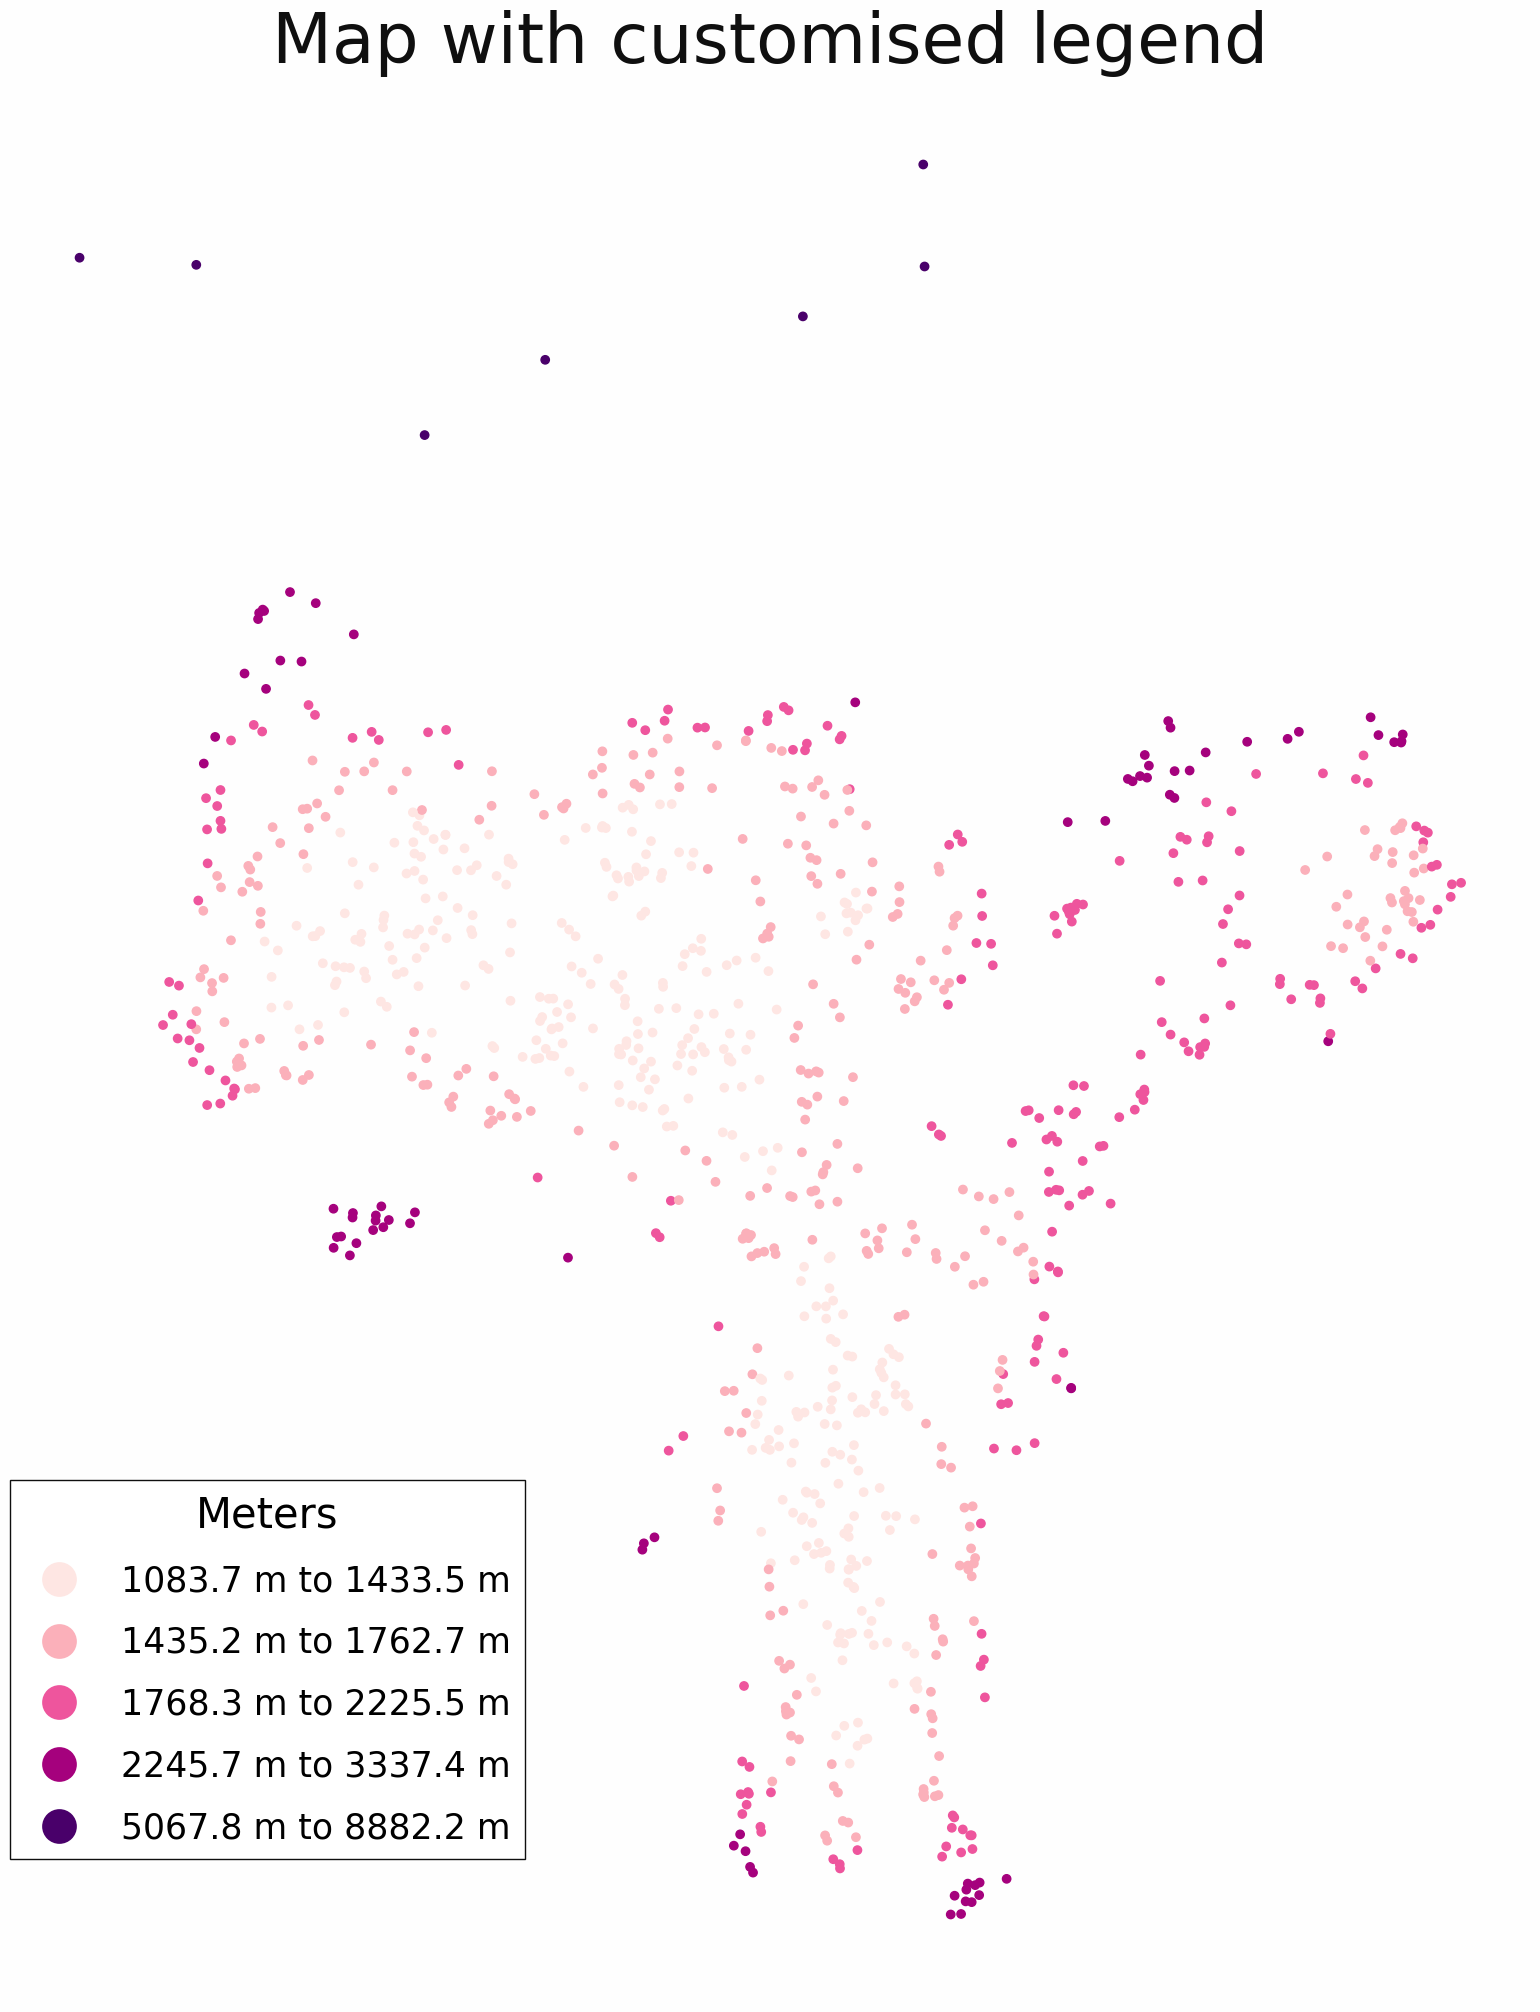
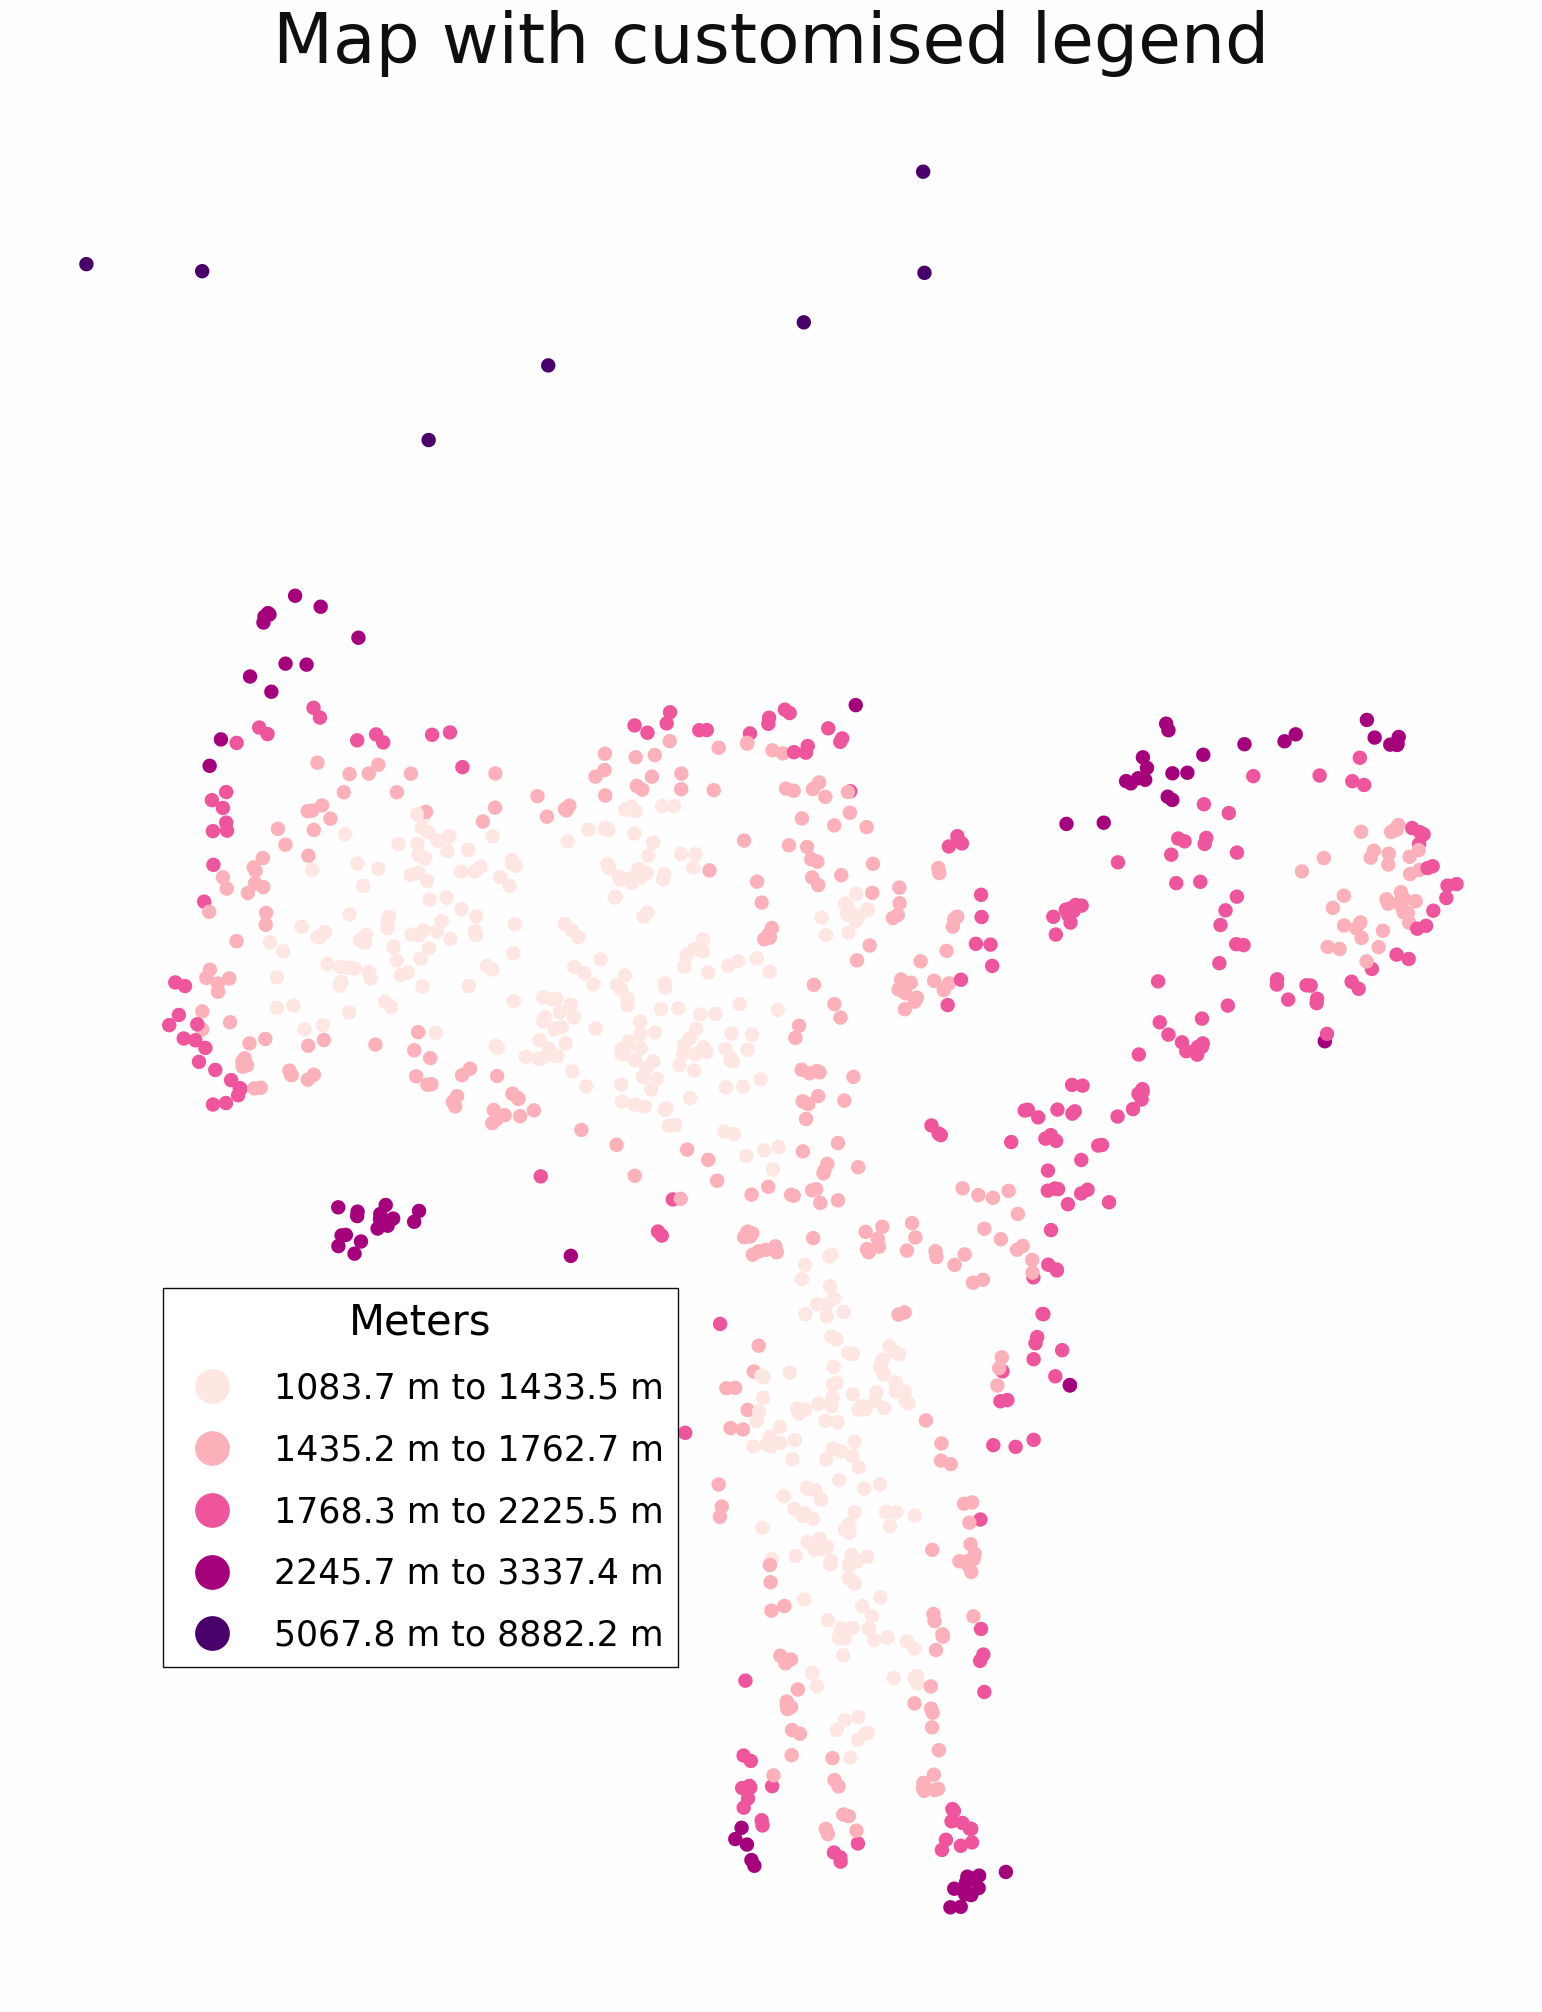
Docs

diff --git a/docs/examples/maps.py b/docs/examples/maps.py
@@ -44,14 +44,14 @@ print(points)
 # %% [markdown]
 # Create and save a simple plot with legend and title.
 # %%
-m = sg.ThematicMap(points, column="mean_dist_99_neighbors")
+m = sg.ThematicMap(sg.buff(points, 100), column="mean_dist_99_neighbors")
 m.title = "Distance to 99 nearest neighbors"
 m.plot()
 m.save("path_to_file.png")
 # %% [markdown]
 # Customising the colors and text. Creating an ugly example.
 # %%
-m = sg.ThematicMap(points, column="mean_dist_99_neighbors")
+m = sg.ThematicMap(sg.buff(points, 100), column="mean_dist_99_neighbors")
 
 m.title = "Map with custom (and ugly) colors."
 m.title_fontsize = 15
@@ -67,7 +67,7 @@ m.plot()
 #
 # Customising the legend can be done through the legend attribute.
 # %%
-m = sg.ThematicMap(points, column="mean_dist_99_neighbors")
+m = sg.ThematicMap(sg.buff(points, 100), column="mean_dist_99_neighbors")
 
 m.title = "Map with customised legend"
 
@@ -81,7 +81,7 @@ m.plot()
 # %% [markdown]
 # Using custom breaks and labels for the color classification.
 # %%
-m = sg.ThematicMap(points, column="mean_dist_99_neighbors")
+m = sg.ThematicMap(sg.buff(points, 100), column="mean_dist_99_neighbors")
 
 m.title = "Map with custom bins and legend labels"
 m.legend.title = "Custom labels"
@@ -104,14 +104,10 @@ m.plot()
 # maximum values in each color group. This will be accurate and truthful, but
 # somewhat confusing.
 # %%
-m = sg.ThematicMap(points, column="mean_dist_99_neighbors")
+m = sg.ThematicMap(sg.buff(points, 100), column="mean_dist_99_neighbors")
 m.title = "Map with custom bins, but default legend labels"
 m.bins = [1500, 2000, 2500, 3000]
 m.legend.title = "Default legend labels"
-m.plot()
-# %%
-m = sg.ThematicMap(sg.buff(points, 100), column="mean_dist_99_neighbors")
-m.title = "Map with a size of 20 inches"
 m.plot()
 # %% [markdown]
 # GeoDataFrames can be added as background with the add_background method.

diff --git a/docs/examples/network_analysis_examples.py b/docs/examples/network_analysis_examples.py
@@ -71,15 +71,12 @@ nwa
 # Get number of times each line segment was visited.
 
 # %%
-freq = nwa.get_route_frequencies(points.sample(75), points.sample(75))
+frequencies = nwa.get_route_frequencies(points.sample(75), points.sample(75))
 
-sg.qtm(
-    sg.buff(freq, 15),
-    "frequency",
-    scheme="naturalbreaks",
-    cmap="plasma",
-    title="Number of times each road was used.",
-)
+m = sg.ThematicMap(sg.buff(frequencies, 15), column="frequency", black=True)
+m.cmap = "plasma"
+m.title = "Number of times each road was used."
+m.plot()
 
 # %% [markdown]
 # Fast many-to-many travel times/distances.
@@ -92,21 +89,27 @@ print(od)
 # Get the area that can be reached within one or more breaks.
 
 # %%
-sa = nwa.service_area(
+service_areas = nwa.service_area(
     points.iloc[[0]],
     breaks=np.arange(1, 11),
 )
 
-sg.qtm(sa, "minutes", k=10, title="Roads that can be reached within 1 to 10 minutes")
+m = sg.ThematicMap(service_areas, column="minutes", black=True, size=10)
+m.k = 10
+m.title = "Roads that can be reached within 1 to 10 minutes"
+m.plot()
 # %% [markdown]
 # Get one or more route per origin-destination pair.
 
 # %%
 routes = nwa.get_k_routes(
-    points.iloc[[0]], points.iloc[[1]], k=5, drop_middle_percent=50
+    points.iloc[[0]], points.iloc[[1]], k=4, drop_middle_percent=50
 )
 
-sg.qtm(sg.buff(routes, 15), "k", title="Five fastest routes from A to B", legend=False)
+m = sg.ThematicMap(sg.buff(routes, 15), column="k", black=True)
+m.title = "Four fastest routes from A to B"
+m.legend.title = "Rank"
+m.plot()
 
 # %% [markdown]
 # More network analysis examples can be found here: https://github.com/statisticsnorway/ssb-sgis/blob/main/docs/network_analysis_demo_template.md

diff --git a/docs/output_for_docstrings.py b/docs/output_for_docstrings.py
@@ -89,23 +89,6 @@ legend_docstring()
 def get_neighbor_indices_docstring():
     from sgis import get_neighbor_indices, to_gdf
 
-    """
-    points = to_gdf([(0, 0), (0.5, 0.5), (2, 2)])
-    p1 = points.iloc[[0]]
-    print(points)
-    print(get_unique_neighbor_indices(p1, points))
-    print(get_unique_neighbor_indices(p1, points, max_distance=1))
-    print(get_unique_neighbor_indices(p1, points, max_distance=3))
-
-    points["text"] = [*"abd"]
-    print(get_unique_neighbor_indices(p1, points.set_index("text"), max_distance=3))
-
-    print(get_neighbor_indices(p1, points))
-    print(get_neighbor_indices(p1, points, max_distance=1))
-    print(get_neighbor_indices(p1, points, max_distance=3))
-    print(get_neighbor_indices(p1, points.set_index("text"), max_distance=3))
-    """
-
     points = to_gdf([(0, 0), (0.5, 0.5)])
     points["text"] = [*"ab"]
     print(get_neighbor_indices(points, points))
@@ -120,7 +103,6 @@ def get_neighbor_indices_docstring():
 
 
 get_neighbor_indices_docstring()
-ss
 
 
 @print_function_name

diff --git a/docs/examples/py_to_md.py b/docs/examples/py_to_md.py
@@ -53,6 +53,10 @@ def py_to_md(
     os.remove(nb_file)
 
 
+file = "network_analysis_examples"
+py_to_md(file, move_n_folders_up=0)
+xxx
+
 file = "maps"
 py_to_md(file, move_n_folders_up=0)
 ss

diff --git a/docs/examples/maps.md b/docs/examples/maps.md
@@ -1,13 +1,24 @@
 # Maps
 
 ```python
+import os
+import warnings
+
 import numpy as np
 import pandas as pd
+
+
+os.chdir("../../src")
+
 import sgis as sg
 
+
+# ignore some warnings
+pd.options.mode.chained_assignment = None
+warnings.filterwarnings(action="ignore", category=FutureWarning)
 ```
 
-First get 1000 addresses in Oslo and create a column with distance to neighbors.
+First get 1000 addresses in Oslo and create a distance to neighbors column.
 
 ```python
 points = sg.read_parquet_url(
@@ -44,7 +55,7 @@ print(points)
 Create and save a simple plot with legend and title.
 
 ```python
-m = sg.ThematicMap(points, column="mean_dist_99_neighbors")
+m = sg.ThematicMap(sg.buff(points, 100), column="mean_dist_99_neighbors")
 m.title = "Distance to 99 nearest neighbors"
 m.plot()
 m.save("path_to_file.png")
@@ -55,7 +66,7 @@ m.save("path_to_file.png")
 Customising the colors and text. Creating an ugly example.
 
 ```python
-m = sg.ThematicMap(points, column="mean_dist_99_neighbors")
+m = sg.ThematicMap(sg.buff(points, 100), column="mean_dist_99_neighbors")
 
 m.title = "Map with custom (and ugly) colors."
 m.title_fontsize = 15
@@ -75,7 +86,7 @@ See here for available cmaps: https://matplotlib.org/stable/tutorials/colors/col
 Customising the legend can be done through the legend attribute.
 
 ```python
-m = sg.ThematicMap(points, column="mean_dist_99_neighbors")
+m = sg.ThematicMap(sg.buff(points, 100), column="mean_dist_99_neighbors")
 
 m.title = "Map with customised legend"
 
@@ -93,7 +104,7 @@ m.plot()
 Using custom breaks and labels for the color classification.
 
 ```python
-m = sg.ThematicMap(points, column="mean_dist_99_neighbors")
+m = sg.ThematicMap(sg.buff(points, 100), column="mean_dist_99_neighbors")
 
 m.title = "Map with custom bins and legend labels"
 m.legend.title = "Custom labels"
@@ -120,7 +131,7 @@ maximum values in each color group. This will be accurate and truthful, but
 somewhat confusing.
 
 ```python
-m = sg.ThematicMap(points, column="mean_dist_99_neighbors")
+m = sg.ThematicMap(sg.buff(points, 100), column="mean_dist_99_neighbors")
 m.title = "Map with custom bins, but default legend labels"
 m.bins = [1500, 2000, 2500, 3000]
 m.legend.title = "Default legend labels"
@@ -128,14 +139,6 @@ m.plot()
 ```
 
 ![png](maps_files/maps_13_0.png)
-
-```python
-m = sg.ThematicMap(sg.buff(points, 100), column="mean_dist_99_neighbors")
-m.title = "Map with a size of 20 inches"
-m.plot()
-```
-
-![png](maps_files/maps_14_0.png)
 
 GeoDataFrames can be added as background with the add_background method.
 The background gdf will be gray by default, but can be changed by setting
@@ -153,7 +156,7 @@ m.add_background(background, color=None)
 m.plot()
 ```
 
-![png](maps_files/maps_16_0.png)
+![png](maps_files/maps_15_0.png)
 
 Setting black to True gives opposite colors and a palette suited for a black
 background (viridis).
@@ -170,7 +173,7 @@ m.add_background(background)
 m.plot()
 ```
 
-![png](maps_files/maps_18_0.png)
+![png](maps_files/maps_17_0.png)
 
 Customising all at once.
 
@@ -210,4 +213,4 @@ m.plot()
 m.save("path_to_file.png")
 ```
 
-![png](maps_files/maps_20_0.png)
+![png](maps_files/maps_19_0.png)

diff --git a/docs/examples/network_analysis_examples.md b/docs/examples/network_analysis_examples.md
@@ -63,29 +63,24 @@ nwa = sg.NetworkAnalysis(network=nw, rules=rules)
 nwa
 ```
 
-```
     NetworkAnalysis(
         network=DirectedNetwork(6364 km, percent_bidirectional=87),
         rules=NetworkAnalysisRules(weight=minutes, search_tolerance=250, search_factor=0, split_lines=False, ...),
         log=True, detailed_log=True,
     )
-```
 
 Get number of times each line segment was visited.
 
 ```python
-freq = nwa.get_route_frequencies(points.sample(75), points.sample(75))
+frequencies = nwa.get_route_frequencies(points.sample(75), points.sample(75))
 
-sg.qtm(
-    sg.buff(freq, 15),
-    "frequency",
-    scheme="naturalbreaks",
-    cmap="plasma",
-    title="Number of times each road was used.",
-)
+m = sg.ThematicMap(sg.buff(frequencies, 15), column="frequency", black=True)
+m.cmap = "plasma"
+m.title = "Number of times each road was used."
+m.plot()
 ```
 
-![png](network_analysis_examples_files/network_analysis_examples_6_0.png)
+![png](network_analysis_examples_files/network_analysis_examples_5_0.png)
 
 Fast many-to-many travel times/distances.
 
@@ -95,7 +90,6 @@ od = nwa.od_cost_matrix(points, points)
 print(od)
 ```
 
-```
             origin  destination    minutes
     0            0            0   0.000000
     1            0            1  13.039830
@@ -110,32 +104,37 @@ print(od)
     999999     999          999   0.000000
 
     [1000000 rows x 3 columns]
-```
 
 Get the area that can be reached within one or more breaks.
 
 ```python
-sa = nwa.service_area(
+service_areas = nwa.service_area(
     points.iloc[[0]],
     breaks=np.arange(1, 11),
 )
 
-sg.qtm(sa, "minutes", k=10, title="Roads that can be reached within 1 to 10 minutes")
+m = sg.ThematicMap(service_areas, column="minutes", black=True, size=10)
+m.k = 10
+m.title = "Roads that can be reached within 1 to 10 minutes"
+m.plot()
 ```
 
-![png](network_analysis_examples_files/network_analysis_examples_10_0.png)
+![png](network_analysis_examples_files/network_analysis_examples_9_0.png)
 
 Get one or more route per origin-destination pair.
 
 ```python
 routes = nwa.get_k_routes(
-    points.iloc[[0]], points.iloc[[1]], k=5, drop_middle_percent=50
+    points.iloc[[0]], points.iloc[[1]], k=4, drop_middle_percent=50
 )
 
-sg.qtm(sg.buff(routes, 15), "k", title="Five fastest routes from A to B", legend=False)
+m = sg.ThematicMap(sg.buff(routes, 15), column="k", black=True)
+m.title = "Four fastest routes from A to B"
+m.legend.title = "Rank"
+m.plot()
 ```
 
-![png](network_analysis_examples_files/network_analysis_examples_12_1.png)
+![png](network_analysis_examples_files/network_analysis_examples_11_0.png)
 
 More network analysis examples can be found here: https://github.com/statisticsnorway/ssb-sgis/blob/main/docs/network_analysis_demo_template.md
 

diff --git a/README.md b/README.md
@@ -107,7 +107,7 @@ service_areas = nwa.service_area(
     breaks=np.arange(1, 11),
 )
 
-m = sg.ThematicMap(service_areas, column="minutes", black=True)
+m = sg.ThematicMap(service_areas, column="minutes", black=True, size=10)
 m.k = 10
 m.title = "Roads that can be reached within 1 to 10 minutes"
 m.plot()
@@ -133,10 +133,6 @@ m.plot()
 More network analysis examples can be found here: https://github.com/statisticsnorway/ssb-sgis/blob/main/docs/network_analysis_demo_template.md
 
 Road data for Norway can be downloaded here: https://kartkatalog.geonorge.no/metadata/nvdb-ruteplan-nettverksdatasett/8d0f9066-34f9-4423-be12-8e8523089313
-
-```python
-
-```
 
 ## Developer information
 

diff --git a/docs/reference/index.rst b/docs/reference/index.rst
@@ -1,8 +1,7 @@
 API Reference
 =============
 
-This page gives an overview of all public functions and methods of sgis. All functions
-and classes can be imported directly from sgis.
+The bullet list below contains all public functions and classes in sgis.
 
 
 .. toctree::
